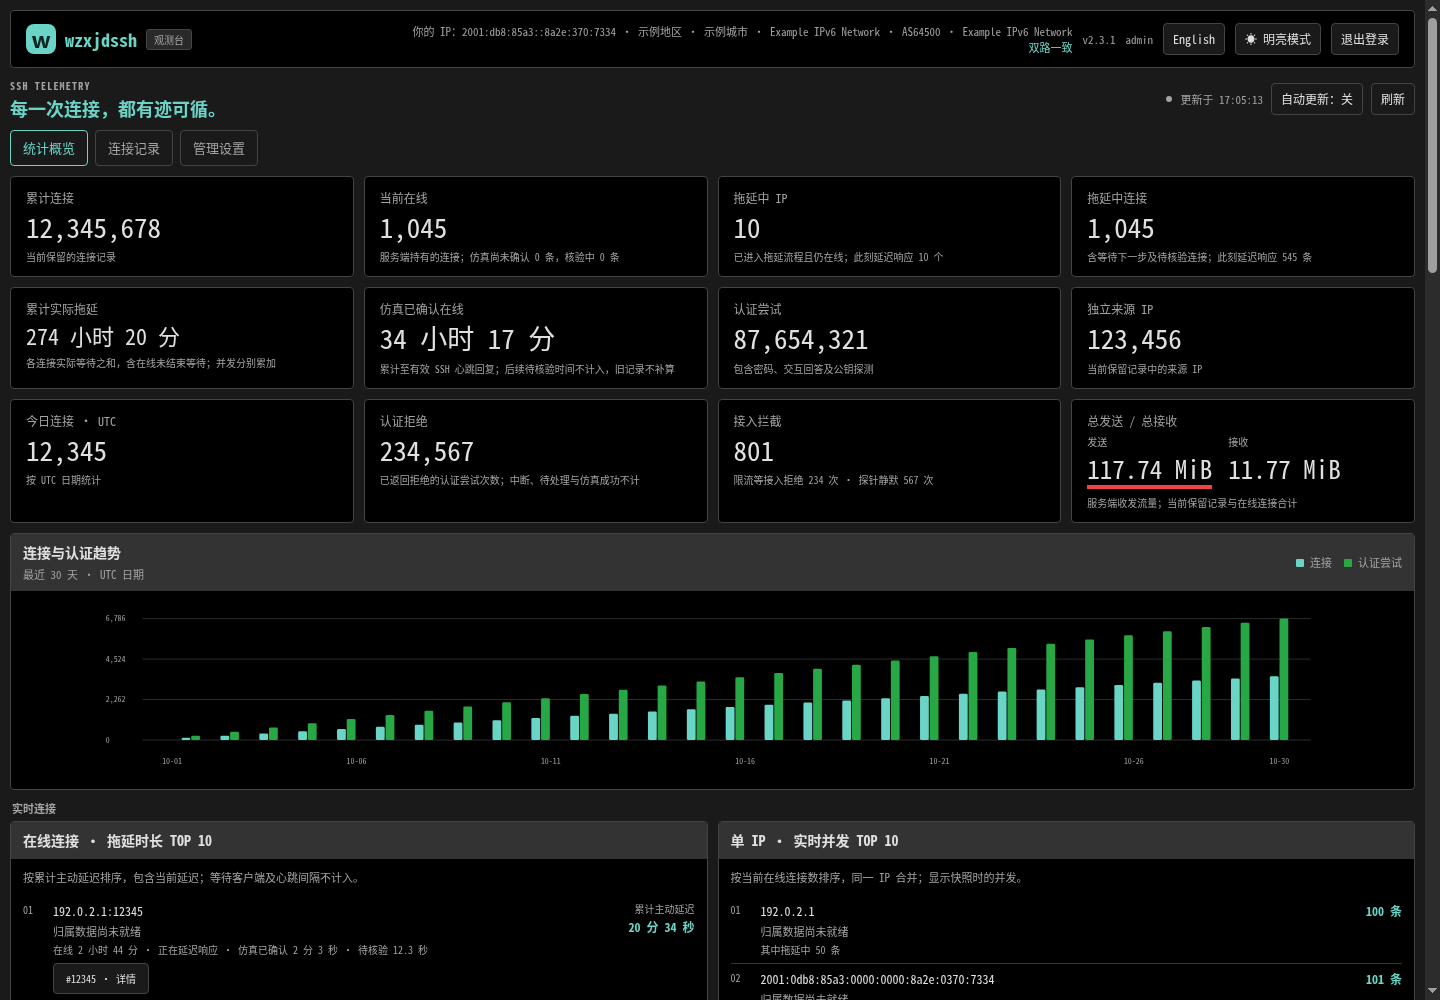
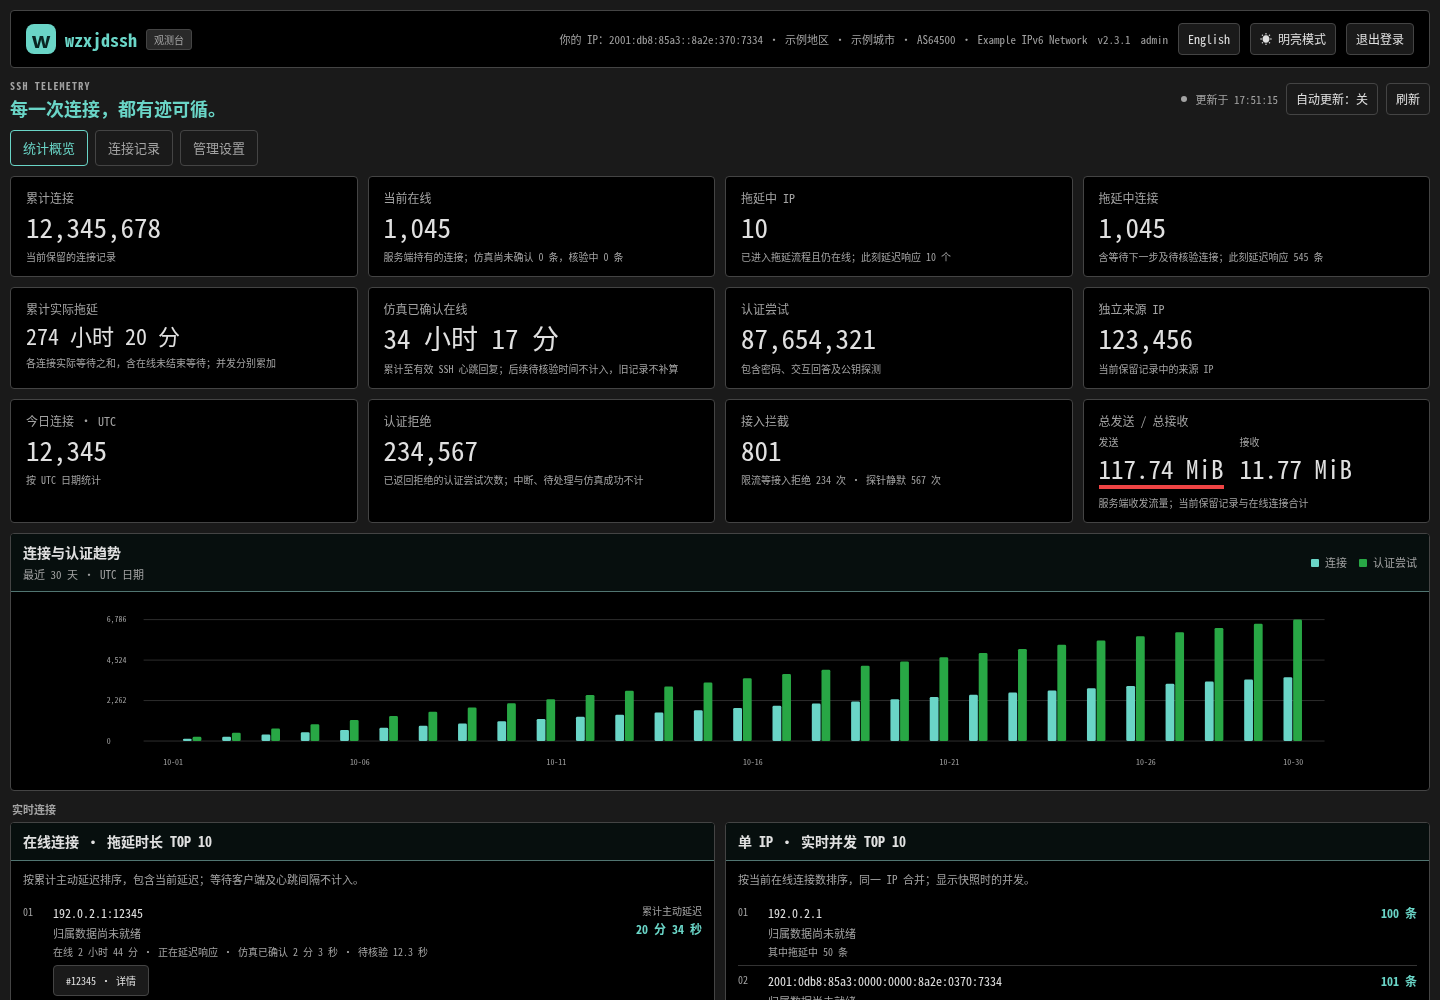
Refine 2.3.1 connection colors and hide matching visitor status

Changed region(s): [[0.0, 0.0, 1.0, 1.0], [0.2188, 0.403, 0.4375, 0.496], [0.25, 0.93, 0.2812, 0.961]]

diff --git a/web/app.js b/web/app.js
@@ -3,6 +3,7 @@ const $=id=>document.getElementById(id);
 const state={page:1,total:0,limit:25,view:'overview',loggedIn:false,busy:false,pending:false,autoUpdate:true,lastActivity:Date.now(),lastSignal:0,activityPending:false,idleTimeout:3600000};
 let activityTimer=0;
 const statusNames={probe_detected:t('无凭据探针'),probe_blocked:t('探针静默丢弃'),connected:t('已连接'),authenticating:t('认证中'),auth_rejected:t('认证拒绝'),closed:t('已关闭'),handshake_failed:t('握手未完成'),rejected:t('接入拒绝'),timeout:t('连接超时'),capacity_evicted:t('容量回收'),interrupted:t('中断'),auth_interrupted:t('认证中断'),cooldown_auth_interrupted:t('冷却重连认证中断'),simulated_disconnect:t('旧版仿真后断开'),simulated_network:t('仿真网络迟滞'),simulated_closed:t('仿真会话结束')};
+function statusBadge(c){const tone={probe_detected:'warning',probe_blocked:'warning',handshake_failed:'warning',timeout:'warning',capacity_evicted:'warning',interrupted:'warning',auth_interrupted:'warning',cooldown_auth_interrupted:'warning',auth_rejected:'danger',rejected:'danger',connected:'accent',authenticating:'accent',simulated_network:'accent',simulated_closed:'accent',simulated_disconnect:'accent'}[c.status]||'neutral';return el('span',statusNames[c.status]||c.status,'badge status-'+tone+(!c.ended_at?' active':''));}
 const number=v=>new Intl.NumberFormat(I18n.locale).format(v??0);
 const date=v=>v?new Date(v).toLocaleString(I18n.locale,{hour12:false}):'—';
 function el(tag,text,cls){const n=document.createElement(tag);if(text!==undefined)n.textContent=text;if(cls)n.className=cls;return n;}
@@ -69,13 +70,13 @@ async function ipConnections(){
   try{const data=await api('connections?'+query);if(request!==ipState.request)return;$('ip-geo').textContent=geoSummary(data.items[0]?.geo);$('ip-error').textContent='';ipState.page=data.page;ipState.total=data.total;const body=$('ip-rows');body.replaceChildren();
   const cell=(label,text)=>{const n=el('td',text);n.dataset.label=label;if([t('来源'),t('连接时间')].includes(label))n.dataset.wide='true';return n;};
   if(!data.items.length){const row=el('tr');const value=cell('',t('暂无连接记录'));value.colSpan=7;row.append(value);body.append(row);}
-  for(const c of data.items){const row=el('tr');row.append(cell(t('连接编号'),'#'+c.id),cell(t('来源'),c.peer),cell(t('连接时间'),date(c.started_at)));const status=cell(t('状态'));status.append(el('span',statusNames[c.status]||c.status,'badge'+(!c.ended_at?' active':'')));if(c.client_mark)status.append(el('span',clientMark(c),'badge client-mark'));row.append(status,cell(t('认证次数'),number(c.auth_attempts)),cell(t('持续时间'),liveDuration(c.duration_ms)));const action=cell(t('操作'));const button=el('button',t('认证详情'),'quiet');button.addEventListener('click',()=>detail(c.id));action.append(button);row.append(action);body.append(row);}
+  for(const c of data.items){const row=el('tr');row.append(cell(t('连接编号'),'#'+c.id),cell(t('来源'),c.peer),cell(t('连接时间'),date(c.started_at)));const status=cell(t('状态'));status.append(statusBadge(c));if(c.client_mark)status.append(el('span',clientMark(c),'badge client-mark'));row.append(status,cell(t('认证次数'),number(c.auth_attempts)),cell(t('持续时间'),liveDuration(c.duration_ms)));const action=cell(t('操作'));const button=el('button',t('认证详情'),'quiet');button.addEventListener('click',()=>detail(c.id));action.append(button);row.append(action);body.append(row);}
   const pages=Math.max(1,Math.ceil(data.total/data.limit));$('ip-count').textContent=t('共 {count} 条连接',{count:number(data.total)});$('ip-page-number').textContent=data.page+' / '+pages;for(const id of ['ip-latest','ip-previous'])$(id).disabled=data.page<=1;for(const id of ['ip-oldest','ip-next'])$(id).disabled=data.page>=pages;
   }catch(err){$('ip-error').textContent=err.message;}
 }
 $('close-ip').addEventListener('click',()=>$('ip-dialog').close());
 for(const [id,destination]of [['ip-latest',()=>1],['ip-previous',()=>Math.max(1,ipState.page-1)],['ip-next',()=>ipState.page+1],['ip-oldest',()=> 'last']])$(id).addEventListener('click',()=>{ipState.page=destination();ipConnections();});
-async function detail(id){try{const {connection:c,attempts}=await api('connections/'+id);$('detail-title').textContent='#'+c.id+' · '+c.ip;const meta=$('detail-meta');meta.replaceChildren();for(const [label,value] of [[t('来源地址'),c.peer],[t('IP 归属'),geoSummary(c.geo)],[t('ASN / 组织'),c.geo?.asn?'AS'+c.geo.asn+' · '+(c.geo.organization||'—'):'—'],[t('运营商 / 网络类型'),[c.geo?.isp,c.geo?.network_type].filter(Boolean).join(' · ')||'—'],[t('归属数据来源'),c.geo?.source||'—'],[t('连接时间'),date(c.started_at)],[t('结束时间'),date(c.ended_at)],[t('状态'),statusNames[c.status]||c.status],[t('关闭原因'),c.reason==='no_credentials'?t('本连接未提交登录凭据，已作为探针回收（不标记 IP）'):c.reason==='emergency_drop'?t('管理员紧急释放连接，暂停 SSH 处理 60 秒'):c.reason==='ssh_keepalive_timeout'?t('SSH 存活检查无响应，已回收连接'):c.reason==='connection_capacity'?t('连接数达上限，按需回收'):c.reason==='peer_closed_during_cooldown_auth_delay'?t('冷却重连认证等待期间由客户端中断'):c.reason==='peer_closed_during_auth_delay'?t('认证等待期间由客户端中断'):c.reason||'—'],[t('协议模式'),c.mode],[t('尝试用户名'),c.username||'—'],[t('客户端标识'),c.client_version||'—'],[t('客户端标记'),clientMark(c)],[t('标记到期'),date(c.mark_expires_at)],[t('存活核验'),c.liveness?(c.liveness.pending?t('等待 SSH 响应 · 已错过 {missed} / {max} 个响应窗口',{missed:number(c.liveness.missed),max:number(c.liveness.count_max)}):c.liveness.last_verified_at?t('最近检查收到 SSH 响应'):t('尚未完成 SSH 响应确认')):'—'],[t('最近 SSH 响应'),date(c.liveness?.last_verified_at||c.session?.last_verified_at)],[t('最近接收数据'),date(c.liveness?.last_received_at||c.session?.last_received_at)],[t('发送 / 接收'),number(c.bytes_sent)+' / '+number(c.bytes_received)+' bytes']])meta.append(el('dt',label),el('dd',value));const list=$('detail-attempts');list.replaceChildren();if(!attempts.length)list.append(el('p',t('此连接未提交认证信息。'),'empty'));for(const a of attempts){const item=el('article',undefined,'attempt');const head=el('header');head.append(el('span',a.method+' · '+(a.result==='simulated_success'?t('仿真成功'):I18n.language==='en'?a.result:({rejected:'拒绝',interrupted:'中断',pending:'待处理',probe:'探测'}[a.result]||a.result))),el('span',date(a.at)));item.append(head,el('p',t('用户名：')+(a.username||t('（空）'))));if(a.fingerprint)item.append(el('p',t('公钥指纹：')+a.fingerprint));item.append(el('p',a.public_key?t('公钥正文：'):(a.method==='password'?t('密码：'):t('交互回答：'))+(a.encoding==='base64'?t('（Base64 原始字节）'):''),'credential-label'),el('pre',a.public_key||a.credential||(a.method==='password'?t('（空密码）'):t('（无内容）')),'credential-value'));if(a.truncated)item.append(el('p',t('记录超出字段上限，内容已截断。'),'muted'));list.append(item);}renderSessionTrace(c);if(!$('detail-dialog').open)$('detail-dialog').showModal();}catch(err){$('app-error').textContent=err.message;}}
+async function detail(id){try{const {connection:c,attempts}=await api('connections/'+id);$('detail-title').textContent='#'+c.id+' · '+c.ip;const meta=$('detail-meta');meta.replaceChildren();for(const [label,value] of [[t('来源地址'),c.peer],[t('IP 归属'),geoSummary(c.geo)],[t('ASN / 组织'),c.geo?.asn?'AS'+c.geo.asn+' · '+(c.geo.organization||'—'):'—'],[t('运营商 / 网络类型'),[c.geo?.isp,c.geo?.network_type].filter(Boolean).join(' · ')||'—'],[t('归属数据来源'),c.geo?.source||'—'],[t('连接时间'),date(c.started_at)],[t('结束时间'),date(c.ended_at)],[t('状态'),statusNames[c.status]||c.status],[t('关闭原因'),c.reason==='no_credentials'?t('本连接未提交登录凭据，已作为探针回收（不标记 IP）'):c.reason==='emergency_drop'?t('管理员紧急释放连接，暂停 SSH 处理 60 秒'):c.reason==='ssh_keepalive_timeout'?t('SSH 存活检查无响应，已回收连接'):c.reason==='connection_capacity'?t('连接数达上限，按需回收'):c.reason==='peer_closed_during_cooldown_auth_delay'?t('冷却重连认证等待期间由客户端中断'):c.reason==='peer_closed_during_auth_delay'?t('认证等待期间由客户端中断'):c.reason||'—'],[t('协议模式'),c.mode],[t('尝试用户名'),c.username||'—'],[t('客户端标识'),c.client_version||'—'],[t('客户端标记'),clientMark(c)],[t('标记到期'),date(c.mark_expires_at)],[t('存活核验'),c.liveness?(c.liveness.pending?t('等待 SSH 响应 · 已错过 {missed} / {max} 个响应窗口',{missed:number(c.liveness.missed),max:number(c.liveness.count_max)}):c.liveness.last_verified_at?t('最近检查收到 SSH 响应'):t('尚未完成 SSH 响应确认')):'—'],[t('最近 SSH 响应'),date(c.liveness?.last_verified_at||c.session?.last_verified_at)],[t('最近接收数据'),date(c.liveness?.last_received_at||c.session?.last_received_at)],[t('发送 / 接收'),number(c.bytes_sent)+' / '+number(c.bytes_received)+' bytes']]){const entry=el('dd',value);if(value==='—')entry.classList.add('detail-unavailable');else if([t('来源地址'),t('ASN / 组织'),t('尝试用户名'),t('发送 / 接收')].includes(label))entry.classList.add('detail-emphasis');if(label===t('状态'))entry.replaceChildren(statusBadge(c));meta.append(el('dt',label),entry);}const list=$('detail-attempts');list.replaceChildren();if(!attempts.length)list.append(el('p',t('此连接未提交认证信息。'),'empty'));for(const a of attempts){const item=el('article',undefined,'attempt');item.dataset.result=a.result;const head=el('header');head.append(el('span',a.method+' · '+(a.result==='simulated_success'?t('仿真成功'):I18n.language==='en'?a.result:({rejected:'拒绝',interrupted:'中断',pending:'待处理',probe:'探测'}[a.result]||a.result))),el('span',date(a.at)));item.append(head,el('p',t('用户名：')+(a.username||t('（空）'))));if(a.fingerprint)item.append(el('p',t('公钥指纹：')+a.fingerprint));item.append(el('p',a.public_key?t('公钥正文：'):(a.method==='password'?t('密码：'):t('交互回答：'))+(a.encoding==='base64'?t('（Base64 原始字节）'):''),'credential-label'),el('pre',a.public_key||a.credential||(a.method==='password'?t('（空密码）'):t('（无内容）')),'credential-value'));if(a.truncated)item.append(el('p',t('记录超出字段上限，内容已截断。'),'muted'));list.append(item);}renderSessionTrace(c);if(!$('detail-dialog').open)$('detail-dialog').showModal();}catch(err){$('app-error').textContent=err.message;}}
 $('close-detail').addEventListener('click',()=>$('detail-dialog').close());
 async function refresh(){if(!state.loggedIn)return;if(state.busy){state.pending=true;return;}state.busy=true;try{$('app-error').textContent='';if(state.view==='overview')await overview();else if(state.view==='connections')await connections();else await loadSettings();$('updated').textContent=t('更新于 ')+new Date().toLocaleTimeString(I18n.locale,{hour12:false});}catch(err){$('app-error').textContent=err.message;}finally{state.busy=false;if(state.pending){state.pending=false;refresh();}}}
 function tab(view){state.view=view;$('overview').hidden=view!=='overview';$('connections-view').hidden=view!=='connections';$('settings-view').hidden=view!=='settings';for(const v of ['overview','connections','settings']){$('tab-'+v).classList.toggle('active',v===view);$('tab-'+v).setAttribute('aria-selected',String(v===view));}refresh();}

diff --git a/web/style.css b/web/style.css
@@ -236,7 +236,7 @@ h3 { font-size: 13px; }
 .header-meta { gap: 10px; min-width: 0; flex-wrap: wrap; justify-content: flex-end; }
 .visitor-info { min-width: 0; flex: 1 1 280px; max-width: 680px; text-align: right; overflow-wrap: anywhere; }
 .visitor-check { display: inline-block; margin-left: 8px; color: var(--accent); }
-.visitor-warning { color: #d97706; }
+.visitor-warning { color: var(--warning-ink); }
 .visitor-comparison { display: block; margin-top: 2px; }
 .header-meta button { padding: 6px 9px; font-size: 12px; }
 
@@ -395,3 +395,87 @@ footer { border-top: 1px solid var(--line); padding: 10px 0 0; margin-top: 10px;
   .login-card { padding: 24px 20px; }
   .login-tools { top: 16px; right: 16px; }
 }
+
+/* Theme accents distinguish connection states without changing their labels. */
+:root {
+  --accent-soft: color-mix(in srgb, var(--accent) 7%, var(--surface));
+  --accent-line: color-mix(in srgb, var(--accent) 34%, var(--line));
+  --warning-ink: #88600b;
+  --warning-soft: color-mix(in srgb, #d99b28 12%, var(--surface));
+  --danger-soft: color-mix(in srgb, var(--danger) 9%, var(--surface));
+}
+:root[data-theme=dark] { --warning-ink: #e9bd69; }
+@media (prefers-color-scheme: dark) {
+  :root:not([data-theme]) { --warning-ink: #e9bd69; }
+}
+.panel > h2,
+.panel > .panel-heading {
+  background: var(--accent-soft);
+  border-bottom: 1px solid var(--accent-line);
+}
+.table-scroll th { color: var(--accent); background: var(--accent-soft); }
+.table-scroll tbody tr:hover,
+.table-scroll tbody tr:focus-within { background: var(--accent-soft); }
+.ip-source,
+#ip-rows td:first-child,
+#ip-rows td:nth-child(2),
+#ip-rows td:nth-child(6) { color: var(--accent); }
+.table-scroll td button.quiet {
+  color: var(--accent);
+  border-color: var(--accent-line);
+  background: var(--accent-soft);
+}
+.badge.status-accent,
+.badge.client-mark {
+  color: var(--accent);
+  background: var(--accent-soft);
+  border: 1px solid var(--accent-line);
+}
+.badge.status-warning {
+  color: var(--warning-ink);
+  background: var(--warning-soft);
+  border: 1px solid color-mix(in srgb, var(--warning-ink) 35%, var(--line));
+}
+.badge.status-danger {
+  color: var(--danger);
+  background: var(--danger-soft);
+  border: 1px solid color-mix(in srgb, var(--danger) 35%, var(--line));
+}
+.badge.status-neutral { color: var(--muted); background: var(--badge-bg); border: 1px solid var(--line); }
+.dialog-heading {
+  border-left: 3px solid var(--accent);
+  border-bottom-color: var(--accent-line);
+  background: var(--accent-soft);
+  padding: 10px 12px;
+}
+.dialog-heading .eyebrow,
+.dialog-heading h2 { color: var(--accent); }
+#ip-geo { color: var(--accent); }
+#detail-meta,
+#session-meta {
+  padding: 12px;
+  border: 1px solid var(--accent-line);
+  border-radius: 4px;
+  background: var(--accent-soft);
+}
+.detail-meta dt { color: var(--label); }
+.detail-meta dd.detail-emphasis { color: var(--accent); font-weight: 600; }
+.detail-meta dd.detail-unavailable { color: var(--muted); }
+#detail-dialog h3 {
+  color: var(--accent);
+  border-left: 3px solid var(--accent);
+  padding-left: 9px;
+}
+.attempt { border-color: var(--accent-line); }
+.attempt header { padding-bottom: 8px; border-bottom: 1px solid var(--accent-line); }
+.attempt header span:first-child { color: var(--accent); font-weight: 600; }
+.attempt[data-result=rejected] { border-left: 3px solid var(--danger); }
+.attempt[data-result=rejected] header span:first-child { color: var(--danger); }
+.attempt[data-result=interrupted],
+.attempt[data-result=probe],
+.attempt[data-result=pending] { border-left: 3px solid var(--warning-ink); }
+.attempt[data-result=simulated_success] { border-left: 3px solid var(--accent); }
+.attempt .credential-label { color: var(--accent); }
+.attempt .credential-value { background: var(--accent-soft); border-color: var(--accent-line); }
+#detail-attempts > .empty { border: 1px dashed var(--accent-line); border-radius: 4px; background: var(--accent-soft); }
+.session-events li::marker { color: var(--accent); }

diff --git a/web/visitor.js b/web/visitor.js
@@ -9,7 +9,8 @@
   identity.textContent=t('你的 IP：')+(data.ip||'—')+' · '+geoSummary(geo)+' · '+asn;
   const mismatch=data.verification==='mismatch';
   check.className='visitor-check'+(mismatch?' visitor-warning':'');
-  check.textContent=pending?t('正在双路校验…'):data.verification==='match'?t('双路一致'):mismatch?t('两路 IP 不一致'):failed?t('单路识别 · 访问者接口不可用'):t('单路识别');
+  check.hidden=!pending&&data.verification==='match';
+  check.textContent=pending?t('正在双路校验…'):data.verification==='match'?'':mismatch?t('两路 IP 不一致'):failed?t('单路识别 · 访问者接口不可用'):t('单路识别');
   comparison.hidden=!mismatch;
   const source={socket:t('直接连接'),forwarded:t('可信反代'),real_ip:t('可信反代'),unavailable:t('不可用')}[data.server_source]||t('不可用');
   comparison.textContent=mismatch?t('访问者接口：')+data.endpoint_ip+' · '+source+'：'+(data.server_ip||'—'):'';

diff --git a/COMPOSE.zh-CN.md b/COMPOSE.zh-CN.md
@@ -164,7 +164,7 @@ location /sshpanel/ {
 
 第一路由浏览器请求 `WZXJDSSH_VISITOR_IP_URL`，默认 `/get-my-ip` 跟随当前网页域名的根路径，例如 `https://example.com/get-my-ip`，不拼到 `/sshpanel/` 下。接口可返回 `{"ip":"2001:db8::1"}` 或纯文本 IP，最多 4 KiB；第二路由后台读取 TCP 来源，只有直接来源属于 `WZXJDSSH_TRUSTED_PROXIES` 时才接受 `X-Forwarded-For` 或 `X-Real-IP`。多级代理从右向左跳过已配置的可信地址，取首个不可信来源。
 
-两路相同显示“双路一致”；不同时显示“两路 IP 不一致”，同时列出接口地址和后台观测地址，接口结果用于归属查询。双栈出口、VPN、CDN 或代理配置不同都可能造成差异，该比较不作为身份认证。接口超时、无效或不可用时使用后台地址并标明单路识别，不阻塞统计页面；登录后和页面重新可见时查询，可见期间每 5 分钟更新。查询不延长管理闲置会话，不写入 SSH 连接数据库。
+两路相同时只展示 IP 与归属信息，不额外显示成功提示；不同时显示“两路 IP 不一致”，同时列出接口地址和后台观测地址，接口结果用于归属查询。双栈出口、VPN、CDN 或代理配置不同都可能造成差异，该比较不作为身份认证。接口超时、无效或不可用时使用后台地址并标明单路识别，不阻塞统计页面；登录后和页面重新可见时查询，可见期间每 5 分钟更新。查询不延长管理闲置会话，不写入 SSH 连接数据库。
 
 Nginx 可以在同一站点提供第一路接口：
 

diff --git a/CHANGELOG.md b/CHANGELOG.md
@@ -4,6 +4,7 @@
 
 ## 2.3.1 — 2026-11-09
 
+- 同版本更新：双路 IP 校验成功时隐藏状态提示；连接列表与详情使用主题色突出来源、关键字段和认证内容，按连接状态区分青绿、琥珀及红色，兼容明暗主题。
 - 后台改为紧凑的中性明暗主题，保留绿色强调色，恢复原版实心圆角 logo；桌面与手机沿用原有功能及统计分组。
 - 页头显示来访者 IPv4/IPv6、归属地、ASN 编号和组织，复用本地数据库与有限缓存。
 - 浏览器来访者接口与可信反代或直接连接来源双路比较；等价地址规范化后比较，不一致时并列显示，接口失败时显示单路识别。新增编排参数 `WZXJDSSH_VISITOR_IP_URL` 与 `WZXJDSSH_TRUSTED_PROXIES`。
